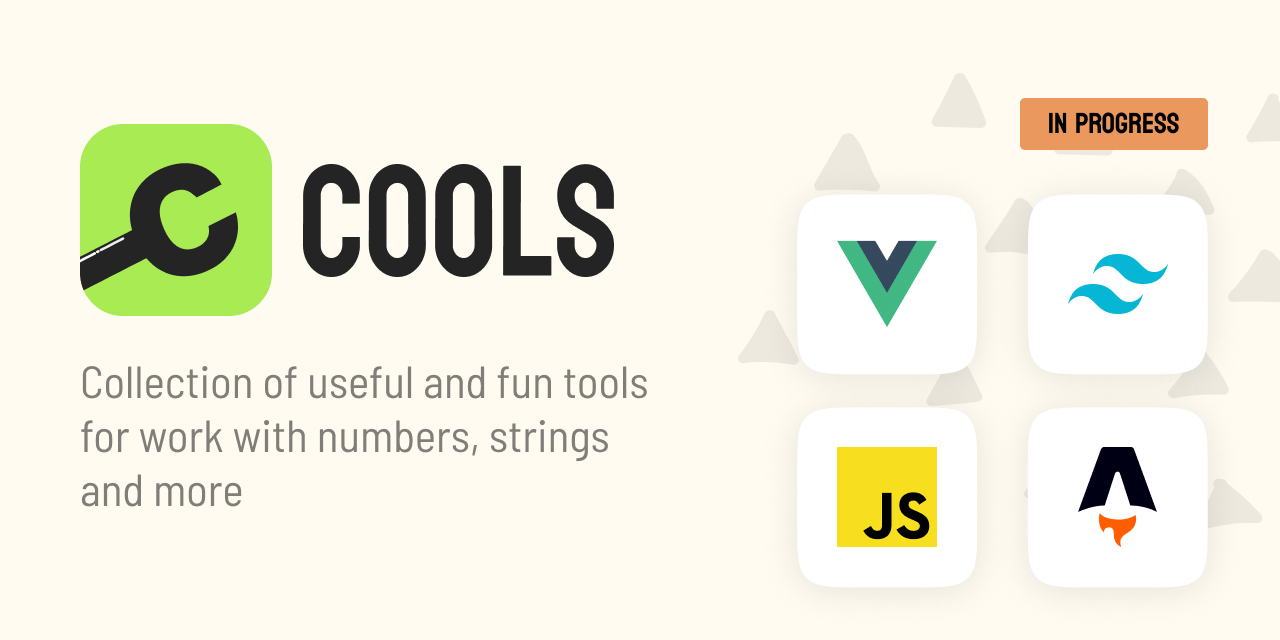
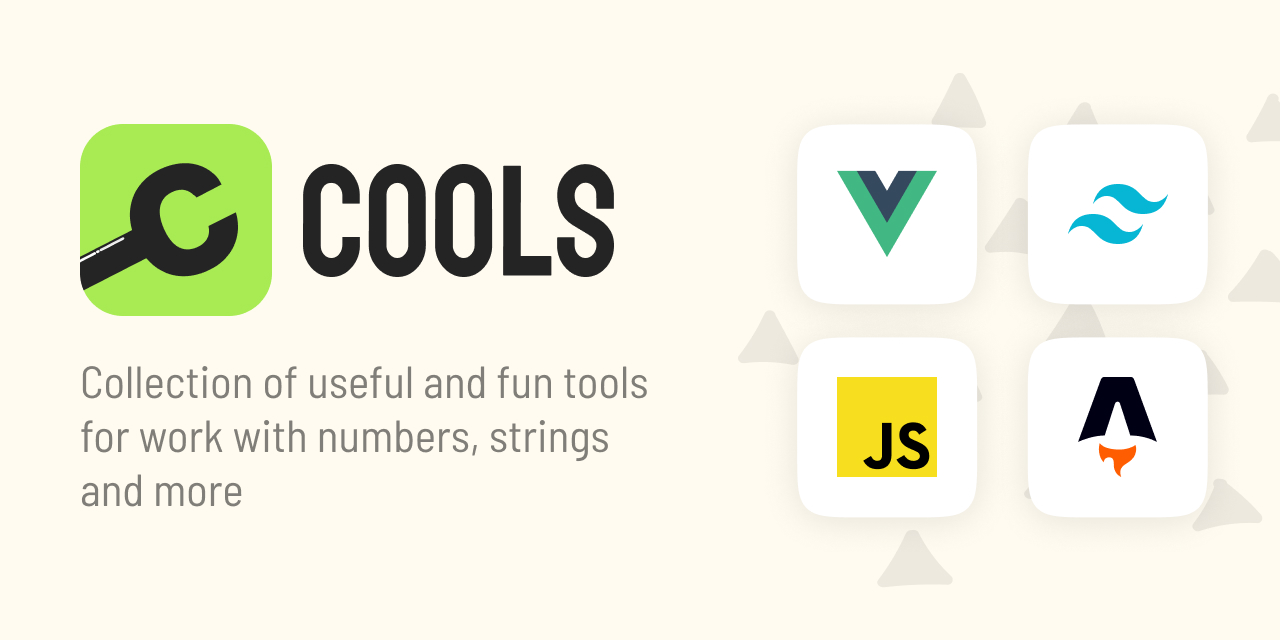
update readme and thumbnail

diff --git a/README.md b/README.md
@@ -1,3 +1,34 @@
 # unit-converter-tools
 
 <img src="https://github.com/bbulakh/unit-converter-tools/blob/main/public/thumbnail.jpg" alt="Cools thumbnail">
+
+# Cools
+
+A collection of unit-converter tools. Built with Astro and Vue.
+
+## Getting started
+
+1. Clone the project
+```
+git clone https://github.com/bbulakh/unit-converter-tools.git
+```
+
+2. Install the dependencies:
+```
+npm install
+```
+
+3. Run the project
+```
+# Start server
+npm run start
+
+# or Build 
+npm run build
+```
+
+## Live demo
+Check the live demo here: [https://unit-converter-tools.vercel.app/](https://unit-converter-tools.vercel.app/)
+
+## License
+[The MIT License (MIT)](https://github.com/bbulakh/unit-converter-tools/blob/main/LICENSE)
